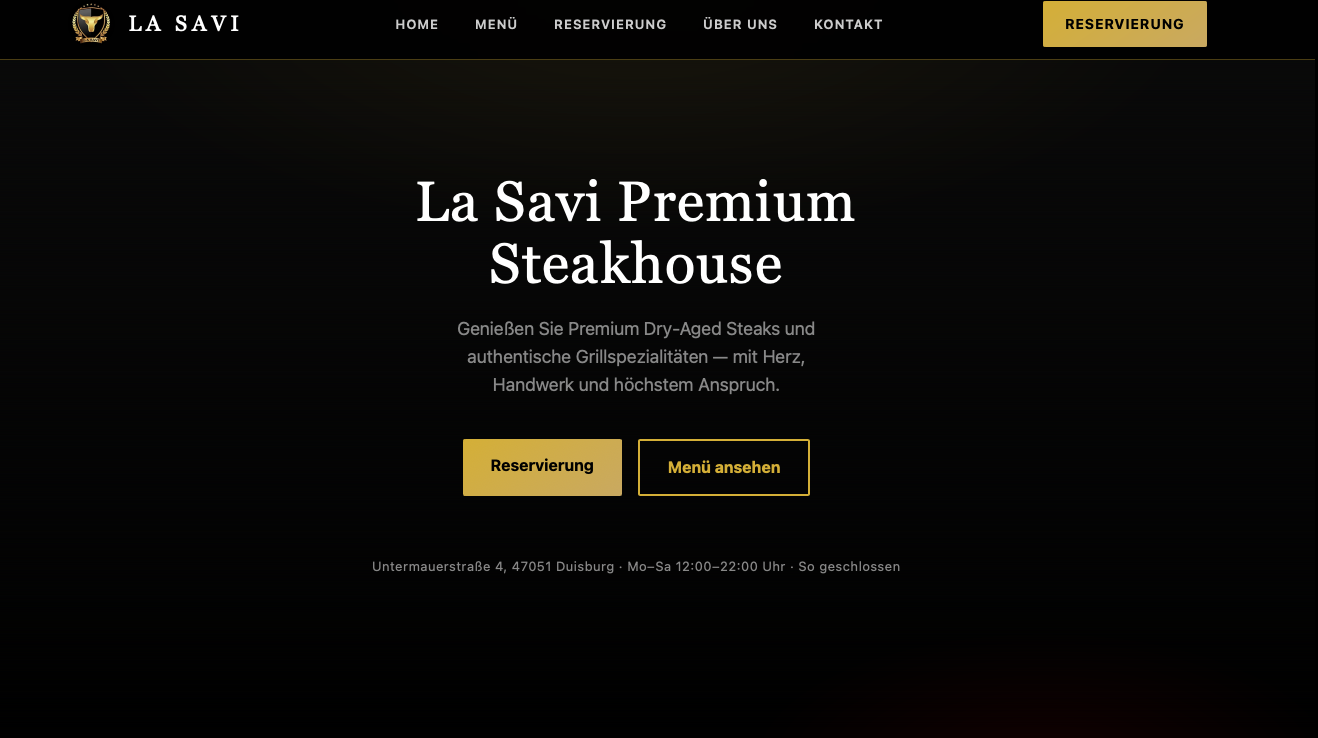
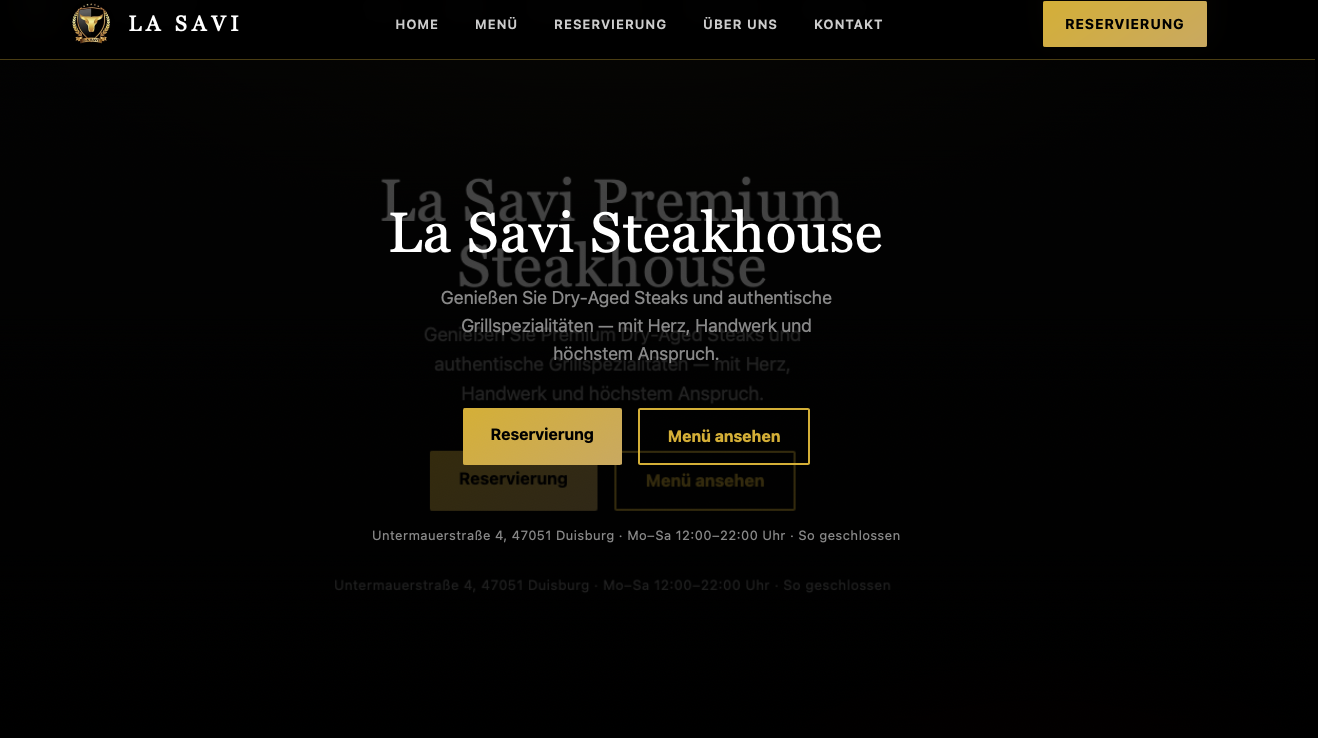
Fix hero text ghosting with layered background treatment
Use the new provided hero image and add blur plus dark overlay layers so foreground text/buttons stay clean without duplicate ghosting.

Made-with: Cursor

Changed region(s): [[0.28, 0.2182, 0.6844, 0.7791]]

diff --git a/index.html b/index.html
@@ -195,13 +195,29 @@
       justify-content: center;
       align-items: center;
       text-align: center;
-      background:
-        linear-gradient(180deg, rgba(0, 0, 0, 0.72), rgba(0, 0, 0, 0.78)),
-        url("images/home-hero.png");
-      background-size: cover;
-      background-position: center;
-      background-repeat: no-repeat;
+      position: relative;
+      overflow: hidden;
       border-bottom: 1px solid var(--gold-dim);
+    }
+    .hero::before {
+      content: "";
+      position: absolute;
+      inset: 0;
+      background: url("images/home-hero.png") center / cover no-repeat;
+      transform: scale(1.06);
+      filter: blur(10px) brightness(0.42);
+    }
+    .hero::after {
+      content: "";
+      position: absolute;
+      inset: 0;
+      background:
+        radial-gradient(ellipse 70% 52% at 50% 44%, rgba(0, 0, 0, 0.18), rgba(0, 0, 0, 0.72) 78%),
+        linear-gradient(180deg, rgba(0, 0, 0, 0.55), rgba(0, 0, 0, 0.84));
+    }
+    .hero .container {
+      position: relative;
+      z-index: 1;
     }
     .hero .container { padding-block: var(--space-60); }
     .hero h1 {
